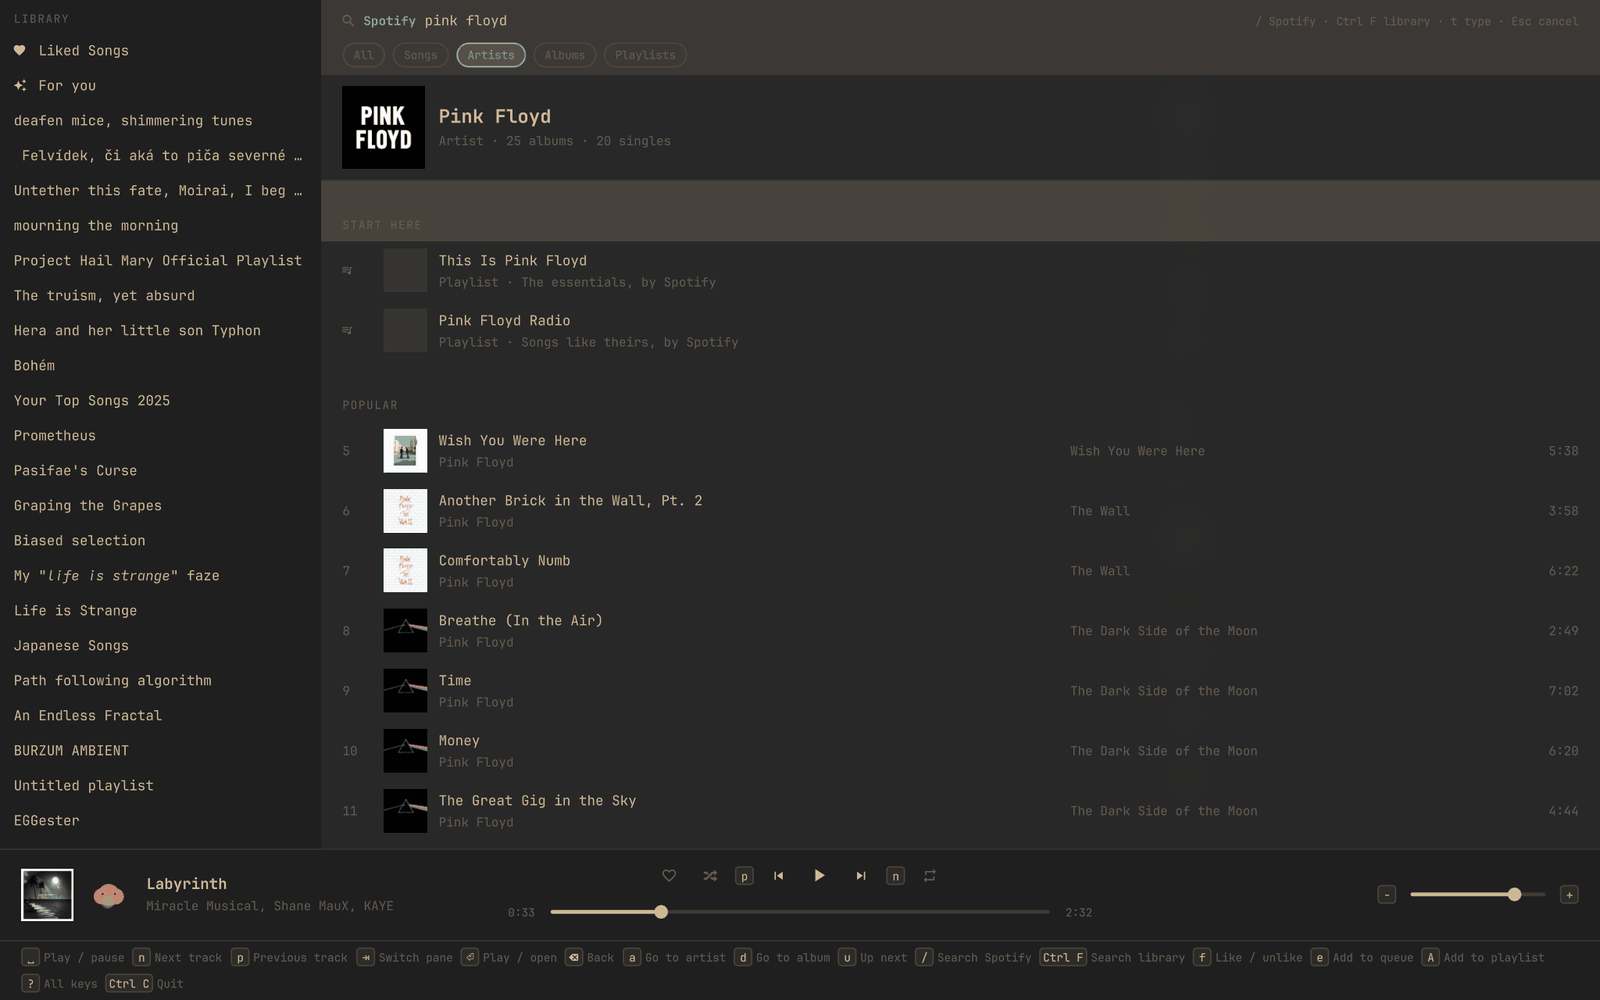
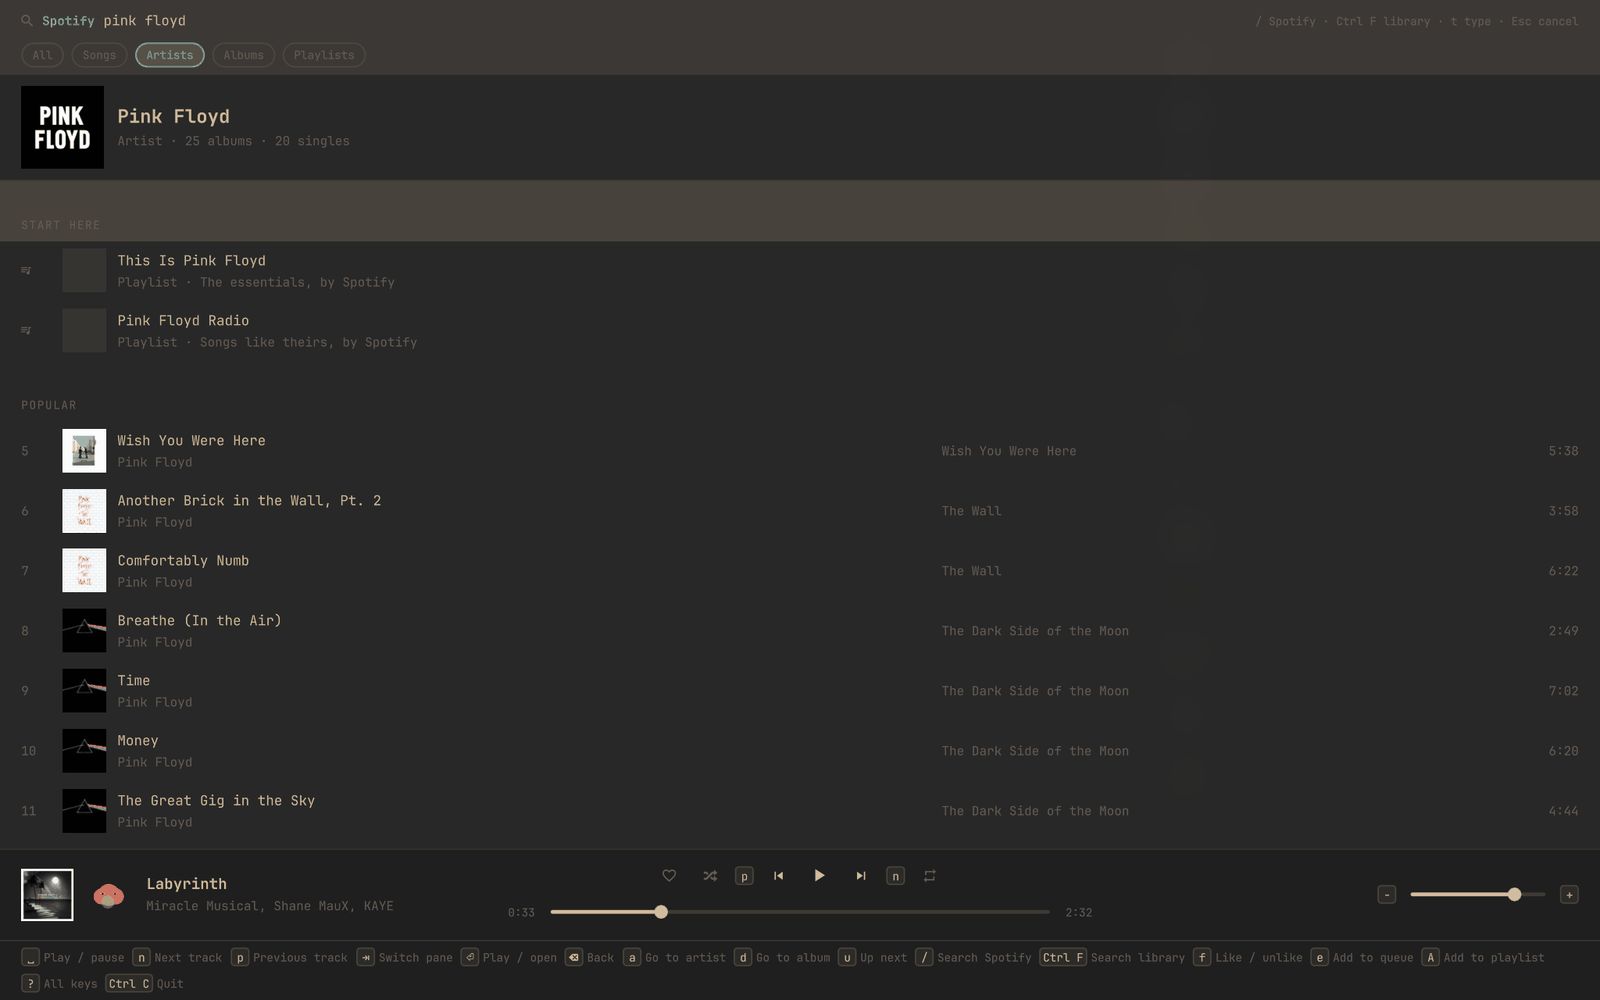
Hide the sidebar with b; retake the README pictures without a real library
- `b` hides and shows the sidebar; the choice is kept in the app's
  preferences, and while it is hidden the list keeps the focus.
- scripts/demo-daemon.py is a stand-in daemon that serves invented
  playlists and tracks with drawn covers, for pictures and for looking
  at the app without anyone's real library on screen.
- The library and shortcut pictures now come from that stand-in; the
  search and artist pictures from the real daemon with the sidebar
  hidden.

Claude-Session: https://claude.ai/code/session_01W56P6Epim6zAWwG3ddvBsz

diff --git a/app/Main.qml b/app/Main.qml
@@ -81,6 +81,8 @@ FloatingWindow {
       property bool creatures: true
       // Show covers on the rows of lists.
       property bool covers: true
+      property bool sidebar: true
+      onSidebarChanged: if (!sidebar) window.pane = "list"
       // Ids of sidebar folders that are folded shut, comma separated.
       property string foldedFolders: ""
     }
@@ -277,13 +279,21 @@ FloatingWindow {
       return
     case "creatures": prefs.creatures = !prefs.creatures; return
     case "covers": prefs.covers = !prefs.covers; return
+    case "sidebar":
+      prefs.sidebar = !prefs.sidebar
+      // Focus follows: into the sidebar when it appears, out when it goes.
+      pane = prefs.sidebar ? "sidebar" : "list"
+      return
     case "quit": Qt.quit(); return
     case "cancel":
       // A selection is cleared before a search is left.
       if (library.markedCount > 0) library.clearMarks()
       else cancelSearch()
       return
-    case "paneNext": pane = pane === "sidebar" ? "list" : "sidebar"; return
+    case "paneNext":
+      // With the sidebar hidden there is only the list.
+      pane = pane === "sidebar" || !prefs.sidebar ? "list" : "sidebar"
+      return
     case "down": target.move(1); return
     case "up": target.move(-1); return
     case "pageDown": target.move(target.rowsPerPage); return
@@ -389,7 +399,7 @@ FloatingWindow {
         filter: library.searching ? library.searchFilter : "", name: library.name, subtitle: library.subtitle, total: library.total,
         state: library.collection.state, pane: window.pane, cursor: tracks.currentIndex,
         history: library.historyIndex + 1 + "/" + library.history.length,
-        phase: player.phase, help: window.helpOpen,
+        phase: player.phase, help: window.helpOpen, sidebarShown: prefs.sidebar,
         helpColumns: help.columns.map(function(column) {
           return column.map(function(section) { return section.title + " (" + section.items.length + ")" })
         }), searchOpen: window.searchOpen, notice: window.noticeText,
@@ -430,7 +440,8 @@ FloatingWindow {
       id: sidebar
       anchors.top: parent.top
       anchors.bottom: nowPlaying.top
-      width: Math.min(Theme.space(280), parent.width * 0.3)
+      visible: prefs.sidebar
+      width: visible ? Math.min(Theme.space(280), parent.width * 0.3) : 0
       library: library
       focused: window.pane === "sidebar"
       collapsed: window.foldedFolders

diff --git a/common/Keymap.js b/common/Keymap.js
@@ -57,6 +57,7 @@ var actions = [
   { id: "removeFromPlaylist", keys: ["x", "Del"], label: "Remove track, or delete playlist in sidebar (twice)", scope: "browse", group: "playlists" },
 
   { id: "reload",      keys: ["R"],              label: "Reload",           scope: "browse", group: "app" },
+  { id: "sidebar",     keys: ["b"],              label: "Show / hide sidebar", scope: "browse", group: "app" },
   { id: "covers",      keys: ["c"],              label: "Covers in lists",  scope: "browse", group: "app" },
   { id: "creatures",   keys: ["v"],              label: "Creatures",        scope: "browse", group: "app" },
   { id: "help",        keys: ["?"],              label: "All keys",         scope: "browse", group: "app", primary: true },

diff --git a/scripts/demo-daemon.py b/scripts/demo-daemon.py
@@ -1,0 +1,227 @@
+#!/usr/bin/env python3
+
+"""A stand-in for sporetifyd that serves a made-up library.
+
+For taking screenshots and looking at the app without showing anyone's real
+playlists. It speaks just enough of the socket protocol for the app to open:
+a sidebar, track lists, generated covers and a "playing" track. Nothing is
+played and Spotify is never contacted. Every name in it is invented.
+
+    scripts/demo-daemon.py /tmp/demo.sock &
+    SPORETIFY_SOCKET=/tmp/demo.sock qs -p App.qml
+
+Covers are drawn with Pillow into a folder beside the socket.
+"""
+
+import hashlib
+import json
+import os
+import random
+import socketserver
+import sys
+import time
+
+from PIL import Image, ImageDraw, ImageFilter
+
+ARTISTS = [
+    "Velvet Harbour", "The Paper Lanterns", "Ansel Rook", "Marigold Static", "Low Tide Choir",
+    "Juno Vale", "Glass Orchard", "Kite and Compass", "North Atlas", "Halcyon Drift",
+    "Saffron Motel", "Odd Meridian", "Wren Calloway", "Tidal Arcade", "Pale Cartographer",
+]
+ALBUMS = [
+    "Salt and Signal", "Rooms We Left", "A Map of Small Hours", "Undertow Season", "Lantern Weather",
+    "Slow Machines", "Fieldnotes", "The Long Shallow", "Paper Moons", "Afterglow Index",
+    "Second Shoreline", "Quiet Engines",
+]
+TITLES = [
+    "Tide Pool", "Small Hours", "Lanterns", "Copper Sky", "Drift", "Northbound", "Glasshouse", "Halfway Home",
+    "Static Bloom", "Undertow", "Paper Boats", "Slow Orbit", "Marigold", "The Shallows", "Night Ferry",
+    "Kelp Forest", "Afterglow", "Blue Hour", "Open Water", "Fireflies", "Low Sun", "Salt", "Cartography",
+    "Wavelength", "Moth Light", "Second Wind", "Harbour Lights", "Soft Machine", "Evergreen", "Sundial",
+    "Hollow Coast", "Quiet Engine", "Field Recording", "Lighthouse", "Spore", "Meridian", "Driftwood",
+    "Silver Lining", "Rain Garden", "Long Way Round",
+]
+PLAYLISTS = [
+    ("Liked Songs", None, 0, False),
+    ("Morning Tide", 24, 0, True),
+    ("Deep Focus", 31, 0, True),
+    ("Night Drive", 18, 0, True),
+    ("Sunday Slow", 22, 0, True),
+    ("Kitchen Radio", 40, 0, True),
+    ("Moods", "folder", 0, False),
+    ("Rainy Window", 16, 1, True),
+    ("Golden Hour", 27, 1, True),
+    ("Loud and Fast", 35, 1, True),
+    ("Road Trip 2026", 52, 0, True),
+    ("Instrumental", 29, 0, True),
+    ("Songs for Coding", 44, 0, True),
+    ("Tide Pool Radio", 50, 0, False),
+    ("Found This Week", 12, 0, True),
+]
+FOR_YOU = ["Discover Weekly", "Release Radar", "On Repeat", "Daily Mix 1", "Daily Mix 2"]
+
+art_dir = ""
+
+
+def slug(text):
+    return hashlib.sha1(text.encode()).hexdigest()[:22]
+
+
+def cover(name):
+    """A generated picture for `name`: a soft gradient with a few shapes."""
+    path = os.path.join(art_dir, slug(name) + ".jpg")
+    if os.path.exists(path):
+        return path
+    rng = random.Random(name)
+    size = 320
+    hue = rng.random()
+
+    def colour(shift, light):
+        import colorsys
+        r, g, b = colorsys.hls_to_rgb((hue + shift) % 1.0, light, 0.55)
+        return int(r * 255), int(g * 255), int(b * 255)
+
+    top, bottom = colour(0.0, 0.32), colour(0.12, 0.62)
+    image = Image.new("RGB", (size, size))
+    draw = ImageDraw.Draw(image)
+    for y in range(size):
+        t = y / size
+        draw.line([(0, y), (size, y)], fill=tuple(int(top[i] + (bottom[i] - top[i]) * t) for i in range(3)))
+    for _ in range(rng.randint(2, 4)):
+        radius = rng.randint(30, 130)
+        x, y = rng.randint(0, size), rng.randint(0, size)
+        draw.ellipse([x - radius, y - radius, x + radius, y + radius], fill=colour(rng.uniform(0.3, 0.6), rng.uniform(0.35, 0.75)))
+    image = image.filter(ImageFilter.GaussianBlur(rng.choice([0, 2, 6])))
+    image.save(path, quality=88)
+    return path
+
+
+def track(seed):
+    rng = random.Random(seed)
+    title, artist, album = rng.choice(TITLES), rng.choice(ARTISTS), rng.choice(ALBUMS)
+    artists = [artist] + ([rng.choice(ARTISTS)] if rng.random() < 0.15 else [])
+    return {
+        "uri": "spotify:track:" + slug("t" + seed), "title": title, "artists": artists,
+        "artist_uris": ["spotify:artist:" + slug("a" + name) for name in artists],
+        "album": album, "album_uri": "spotify:album:" + slug("b" + album),
+        "duration_ms": rng.randint(138, 322) * 1000, "available": True,
+        "liked": rng.random() < 0.3, "art_url": "demo:" + album, "art_path": cover(album),
+    }
+
+
+def playlist_uri(name):
+    return "spotify:user:demo:collection" if name == "Liked Songs" else "spotify:playlist:" + slug("p" + name)
+
+
+LENGTHS = {name: (length if isinstance(length, int) else 214) for name, length, _, _ in PLAYLISTS if length != "folder"}
+LENGTHS.update({name: 30 for name in FOR_YOU})
+BY_URI = {playlist_uri(name): name for name in LENGTHS}
+
+
+def tracks_of(name):
+    rows = [track(name + str(i)) for i in range(LENGTHS[name])]
+    if name == "Liked Songs":
+        for row in rows:
+            row["liked"] = True
+    return rows
+
+
+PLAYING = {}
+state = {"playing": True, "volume": 0.72, "shuffle": False, "repeat": False, "seq": 1,
+         "position_ms": 48000, "at_ms": int(time.time() * 1000)}
+
+
+def player():
+    return {
+        "device": "Sporetify", "playing": state["playing"], "volume": state["volume"],
+        "shuffle": state["shuffle"], "repeat": state["repeat"], "seq": state["seq"],
+        "position": {"position_ms": state["position_ms"], "at_ms": state["at_ms"], "rate": 1.0 if state["playing"] else 0.0},
+        "track": {"id": PLAYING["uri"], "title": PLAYING["title"], "artists": PLAYING["artists"], "album": PLAYING["album"],
+                  "duration_ms": PLAYING["duration_ms"], "art_url": PLAYING["art_url"], "art_path": PLAYING["art_path"]},
+    }
+
+
+def answer(op, args):
+    if op == "player.get":
+        return {"status": "ready", "player": player()}
+    if op == "library.playlists":
+        items = []
+        for name, length, depth, editable in PLAYLISTS:
+            if length == "folder":
+                items.append({"kind": "folder", "id": slug(name), "name": name, "depth": depth})
+            else:
+                items.append({"uri": playlist_uri(name), "name": name, "length": length, "depth": depth, "editable": editable})
+        return {"items": items, "stale": False}
+    if op == "library.tracks":
+        name = BY_URI.get(args.get("uri"), "Morning Tide")
+        rows = tracks_of(name)
+        offset, limit = int(args.get("offset", 0)), int(args.get("limit", 100))
+        return {"uri": args.get("uri"), "name": name, "total": len(rows), "offset": offset,
+                "items": rows[offset:offset + limit], "art_url": "demo:" + name}
+    if op == "library.made_for_you":
+        return {"items": [{"uri": playlist_uri(name), "name": name, "owner": "Spotify", "art_url": "demo:" + name} for name in FOR_YOU]}
+    if op == "art.get":
+        return {"path": cover(str(args.get("url", "")).removeprefix("demo:"))}
+    if op in ("library.is_saved", "library.save", "library.unsave"):
+        return {"uri": args.get("uri"), "liked": op != "library.unsave"}
+    if op == "library.search":
+        return {"query": args.get("query", ""), "items": [], "total": 0, "indexing": False}
+    if op == "search":
+        return {"query": args.get("query", ""), "tracks": [], "artists": [], "albums": [], "playlists": []}
+    if op == "player.up_next":
+        rows = tracks_of("Morning Tide")[4:]
+        return {"context_uri": playlist_uri("Morning Tide"), "context_name": "Morning Tide", "position": 3,
+                "total": LENGTHS["Morning Tide"], "shuffle": False, "items": rows}
+    if op in ("subscribe", "unsubscribe"):
+        return {"topics": args.get("topics", [])}
+    return {}
+
+
+class Connection(socketserver.StreamRequestHandler):
+    def send(self, frame):
+        self.wfile.write((json.dumps(frame) + "\n").encode())
+        self.wfile.flush()
+
+    def handle(self):
+        self.send({"ev": "hello", "protocol": 0, "daemon": "0.1.0", "status": "ready", "player": player()})
+        for line in self.rfile:
+            try:
+                request = json.loads(line)
+            except ValueError:
+                continue
+            if "id" not in request:
+                continue
+            op = request.get("op", "")
+            if op in ("player.toggle", "player.play", "player.pause"):
+                state["playing"] = op == "player.play" or (op == "player.toggle" and not state["playing"])
+                state["seq"] += 1
+                self.send({"ev": "player", "player": player()})
+            self.send({"id": request["id"], "ok": True, "stale": False, "final": True, "data": answer(op, request.get("args") or {})})
+
+
+class Server(socketserver.ThreadingMixIn, socketserver.UnixStreamServer):
+    daemon_threads = True
+
+
+def main():
+    global art_dir
+    if len(sys.argv) != 2:
+        sys.exit(__doc__)
+    path = sys.argv[1]
+    art_dir = path + ".art"
+    os.makedirs(art_dir, exist_ok=True)
+    # Drawn now, not at import: the covers need the folder above.
+    PLAYING.update(track("Morning Tide3"), liked=True)
+    if os.path.exists(path):
+        os.remove(path)
+    with Server(path, Connection) as server:
+        try:
+            server.serve_forever()
+        except KeyboardInterrupt:
+            pass
+        finally:
+            os.remove(path)
+
+
+if __name__ == "__main__":
+    main()

diff --git a/CLAUDE.md b/CLAUDE.md
@@ -91,7 +91,8 @@ common/              QML shared by plugin and app: DaemonClient, Player, Keymap.
 daemon/              Rust crate `sporetifyd`
 systemd/             sporetifyd.socket + .service (socket-activated user units)
 scripts/             setup.sh and uninstall.sh (for users), install-dev.sh and
-                     uninstall-dev.sh (for a checkout), test.sh, env.sh, lib.sh
+                     uninstall-dev.sh (for a checkout), test.sh, env.sh, lib.sh,
+                     demo-daemon.py (a stand-in daemon with a made-up library)
 .github/workflows/   ci.yml (every push), release.yml (builds the daemon on a tag)
 CHANGELOG.md         one section per version
 docs/screenshots/    the pictures the README shows
@@ -371,6 +372,12 @@ Things that bite:
   one script that restores the original state in a `finally`. Prefer the
   daemon's ops over the UI for the write itself, and use the UI only to
   check what it shows.
+- **Pictures for the README must not show the owner's library.** Take the
+  views that show a library (a playlist with the sidebar, the shortcut
+  overlay) against `scripts/demo-daemon.py`, which serves invented names
+  and drawn covers. Take search, artist and album pages on the real daemon
+  with the sidebar hidden (`act sidebar`, and put it back afterwards: it is
+  a saved preference). The now-playing bar shows whatever is loaded.
 - **Tests that write to the Spotify account need care.** Like, unlike and
   queue change the owner's real library and queue. Before sending one, read
   `describe`'s `subject` to confirm exactly which track it will hit, only

diff --git a/.claude/architecture/04-frontends.md b/.claude/architecture/04-frontends.md
@@ -156,6 +156,8 @@ bin/sporetify        focus the window if it exists, otherwise start the app
 - **Sidebar:** Liked Songs (with a heart), "For you" (the playlists Spotify
   makes for the user), then playlists and folders. A folder folds and
   unfolds with `Enter`; which ones are folded is kept in the preferences.
+  `b` hides and shows the whole sidebar (kept in the preferences); while it
+  is hidden the list has the focus and `Tab` stays there.
 - **Offline:** not a fault. The sidebar says it is showing what was saved,
   playlists and library search work from the daemon's files, and anything
   that needs Spotify says why it failed in a toast.
@@ -203,7 +205,7 @@ Planned: a devices view, reordering the queue.
 | --- | --- | --- |
 | `player` | everywhere playback is possible | `Space` `n` `p` `+` `-` `m` `←` `→` `s` `r` |
 | `mini` | mini-player | `o` `f` |
-| `browse` | app | `j` `k` arrows `Enter` `Tab` `g` `G` `PgUp` `PgDn` `/` `Ctrl F` `t` `a` `d` `u` `f` `e` `A` `x` `V` `J` `K` `N` `F2` `⌫` `[` `]` `R` `v` `c` `?` |
+| `browse` | app | `j` `k` arrows `Enter` `Tab` `g` `G` `PgUp` `PgDn` `/` `Ctrl F` `t` `a` `d` `u` `f` `e` `A` `x` `V` `J` `K` `N` `F2` `⌫` `[` `]` `R` `b` `v` `c` `?` |
 | `signedOut` | signed out | `Enter` signs in |
 | `fault` | offline / no daemon | `Enter` retries |
 | `popup` | mini-player | `Esc` `q` close |

diff --git a/README.md b/README.md
@@ -21,7 +21,7 @@ offline.
 </p>
 
 <p align="center">
-  <img src="docs/screenshots/library.png" alt="Your library: Liked Songs" width="49%">
+  <img src="docs/screenshots/library.png" alt="A playlist in the library" width="49%">
   <img src="docs/screenshots/search.png" alt="Search results from all of Spotify" width="49%">
   <br>
   <sub>Your library, and search across all of Spotify.</sub>
@@ -121,6 +121,7 @@ Every surface lists its shortcuts in a footer. The main ones:
 | `V` | Select several tracks | `J` / `K` | Move a track down / up |
 | `N` | New playlist | `F2` | Rename a playlist |
 | `Backspace` | Back | `?` | Every shortcut |
+| `b` | Show / hide the sidebar | `c` | Covers in lists on / off |
 | `←` / `→` | Seek 10 s | `Esc` | Cancel search (closes the mini-player) |
 | `Ctrl C` | Quit the app | | |
 

diff --git a/CHANGELOG.md b/CHANGELOG.md
@@ -19,5 +19,6 @@ First version.
 - Media keys and `playerctl` through MPRIS; playback resumes where it
   stopped.
 - A creature generated for every track.
+- `b` hides and shows the sidebar.
 - `scripts/setup.sh` and `scripts/uninstall.sh` for installing from the
   plugin folder.
